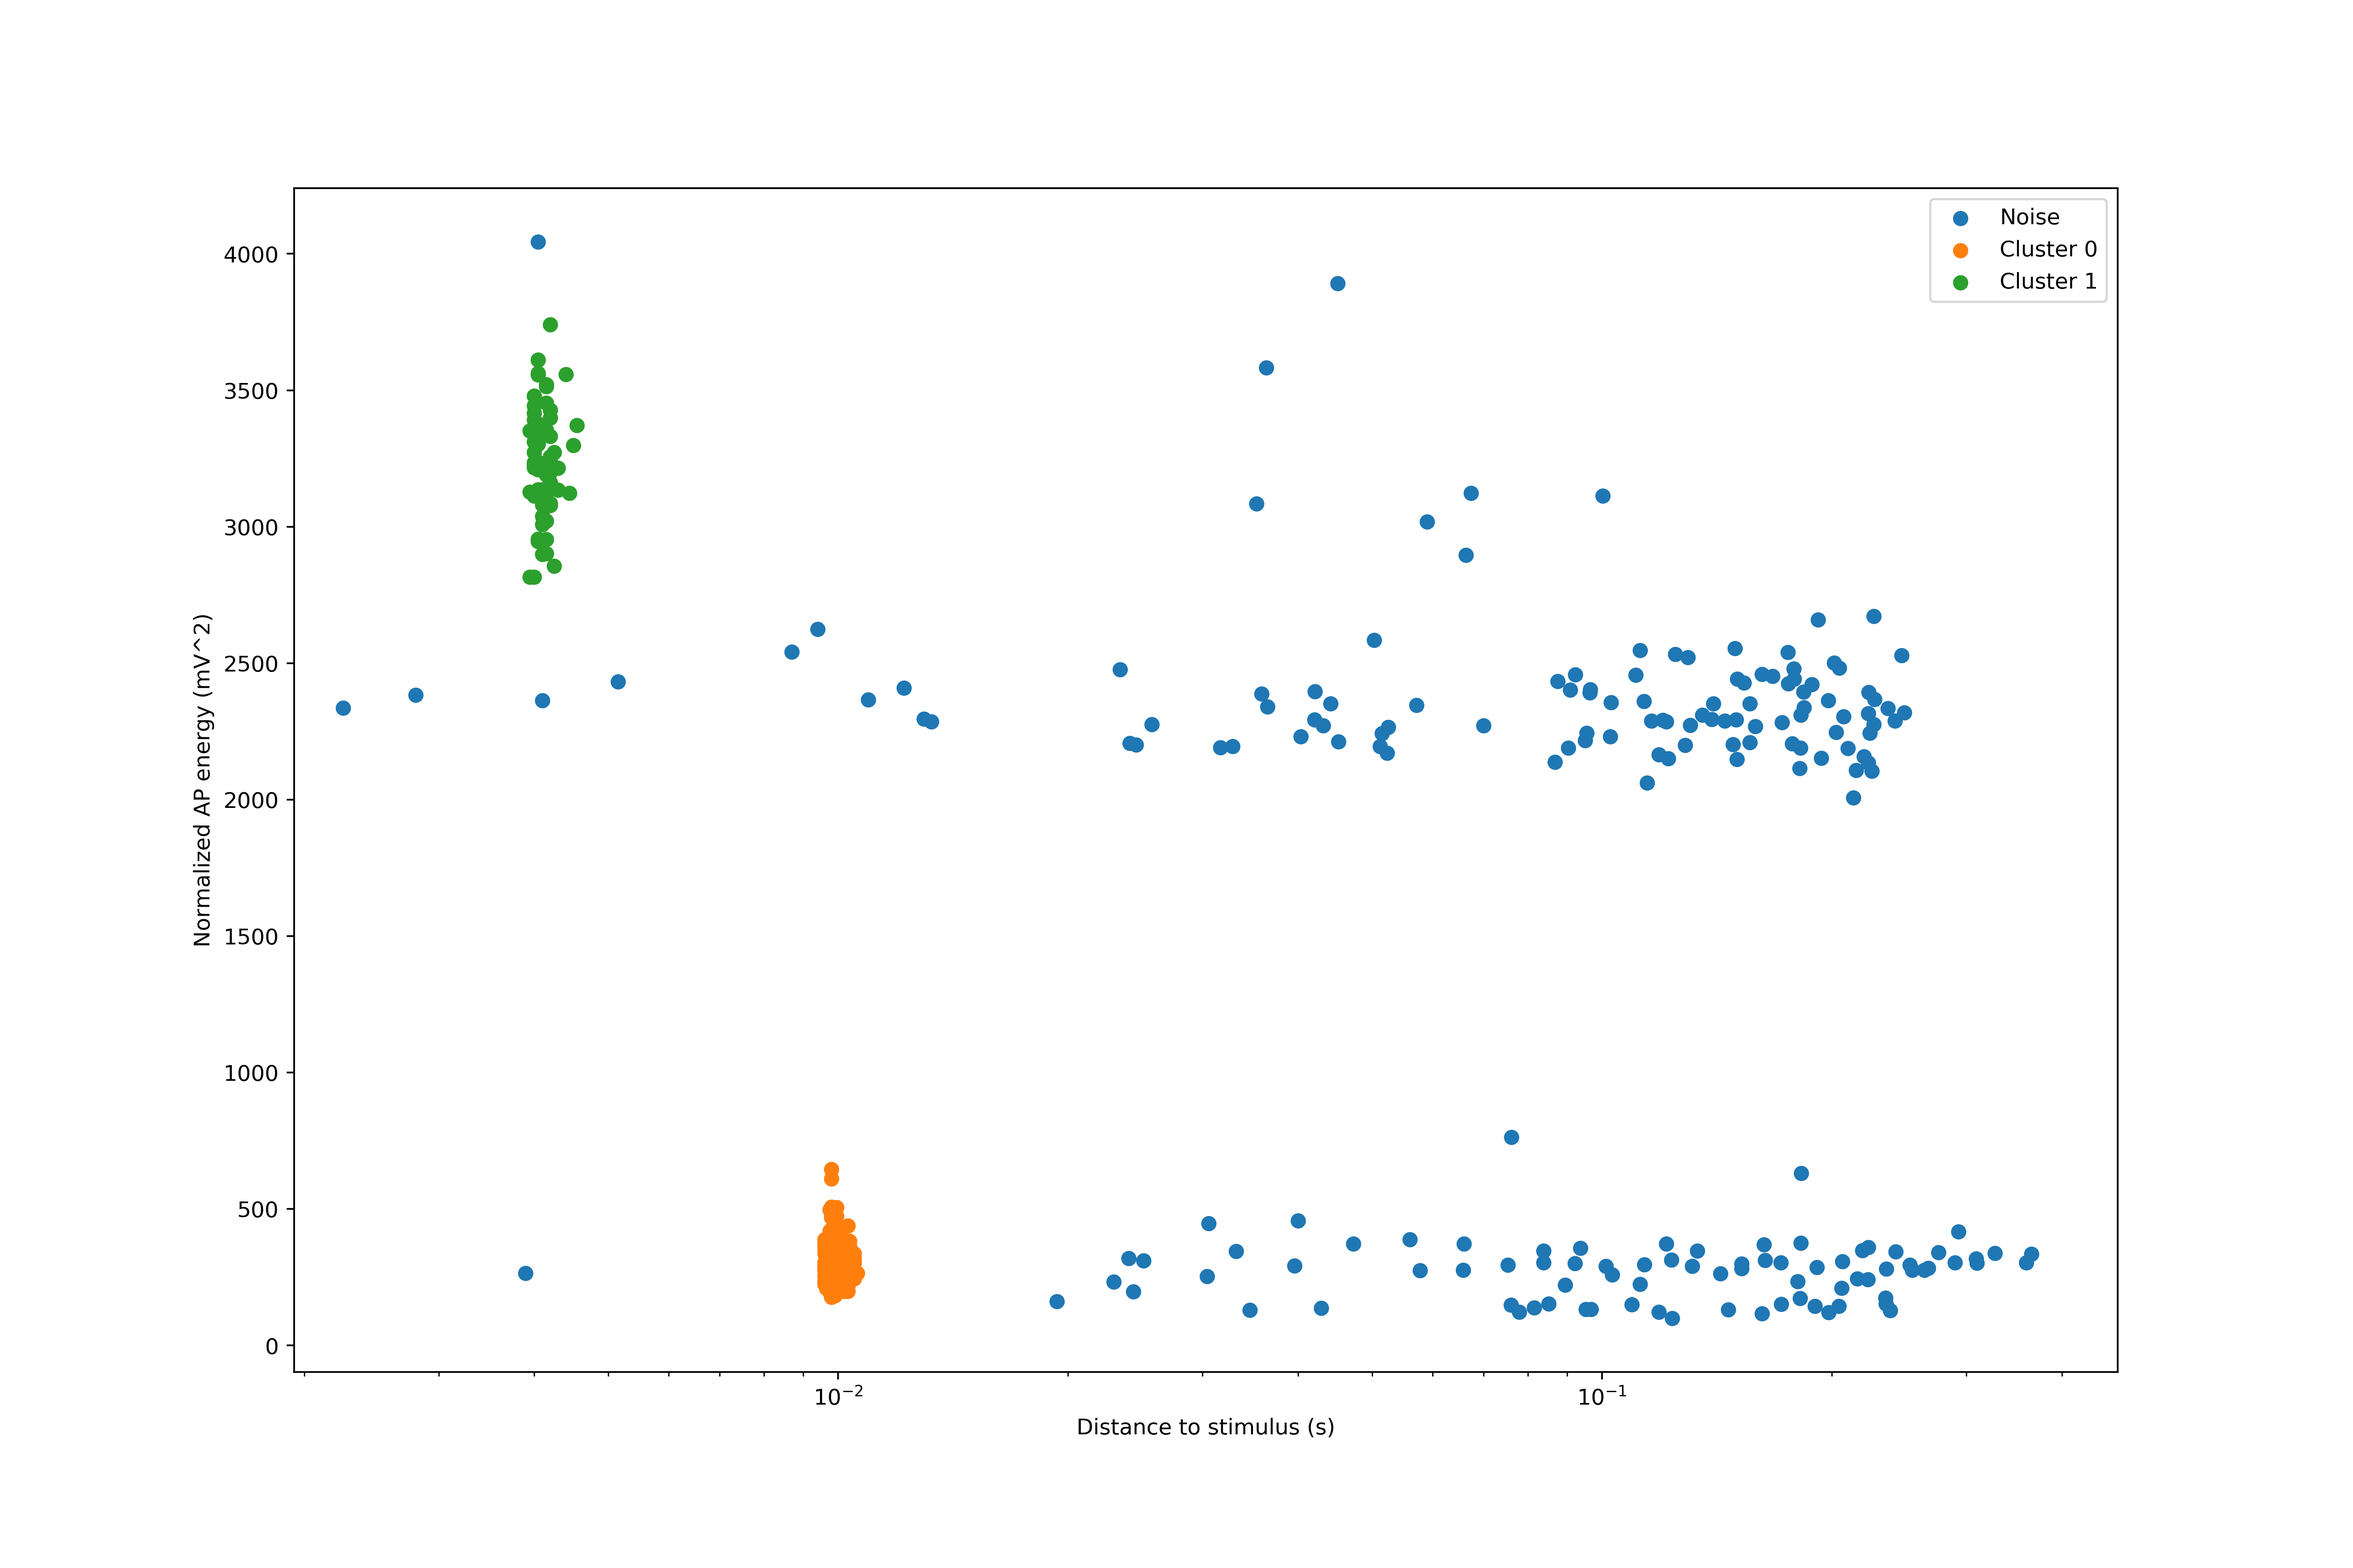
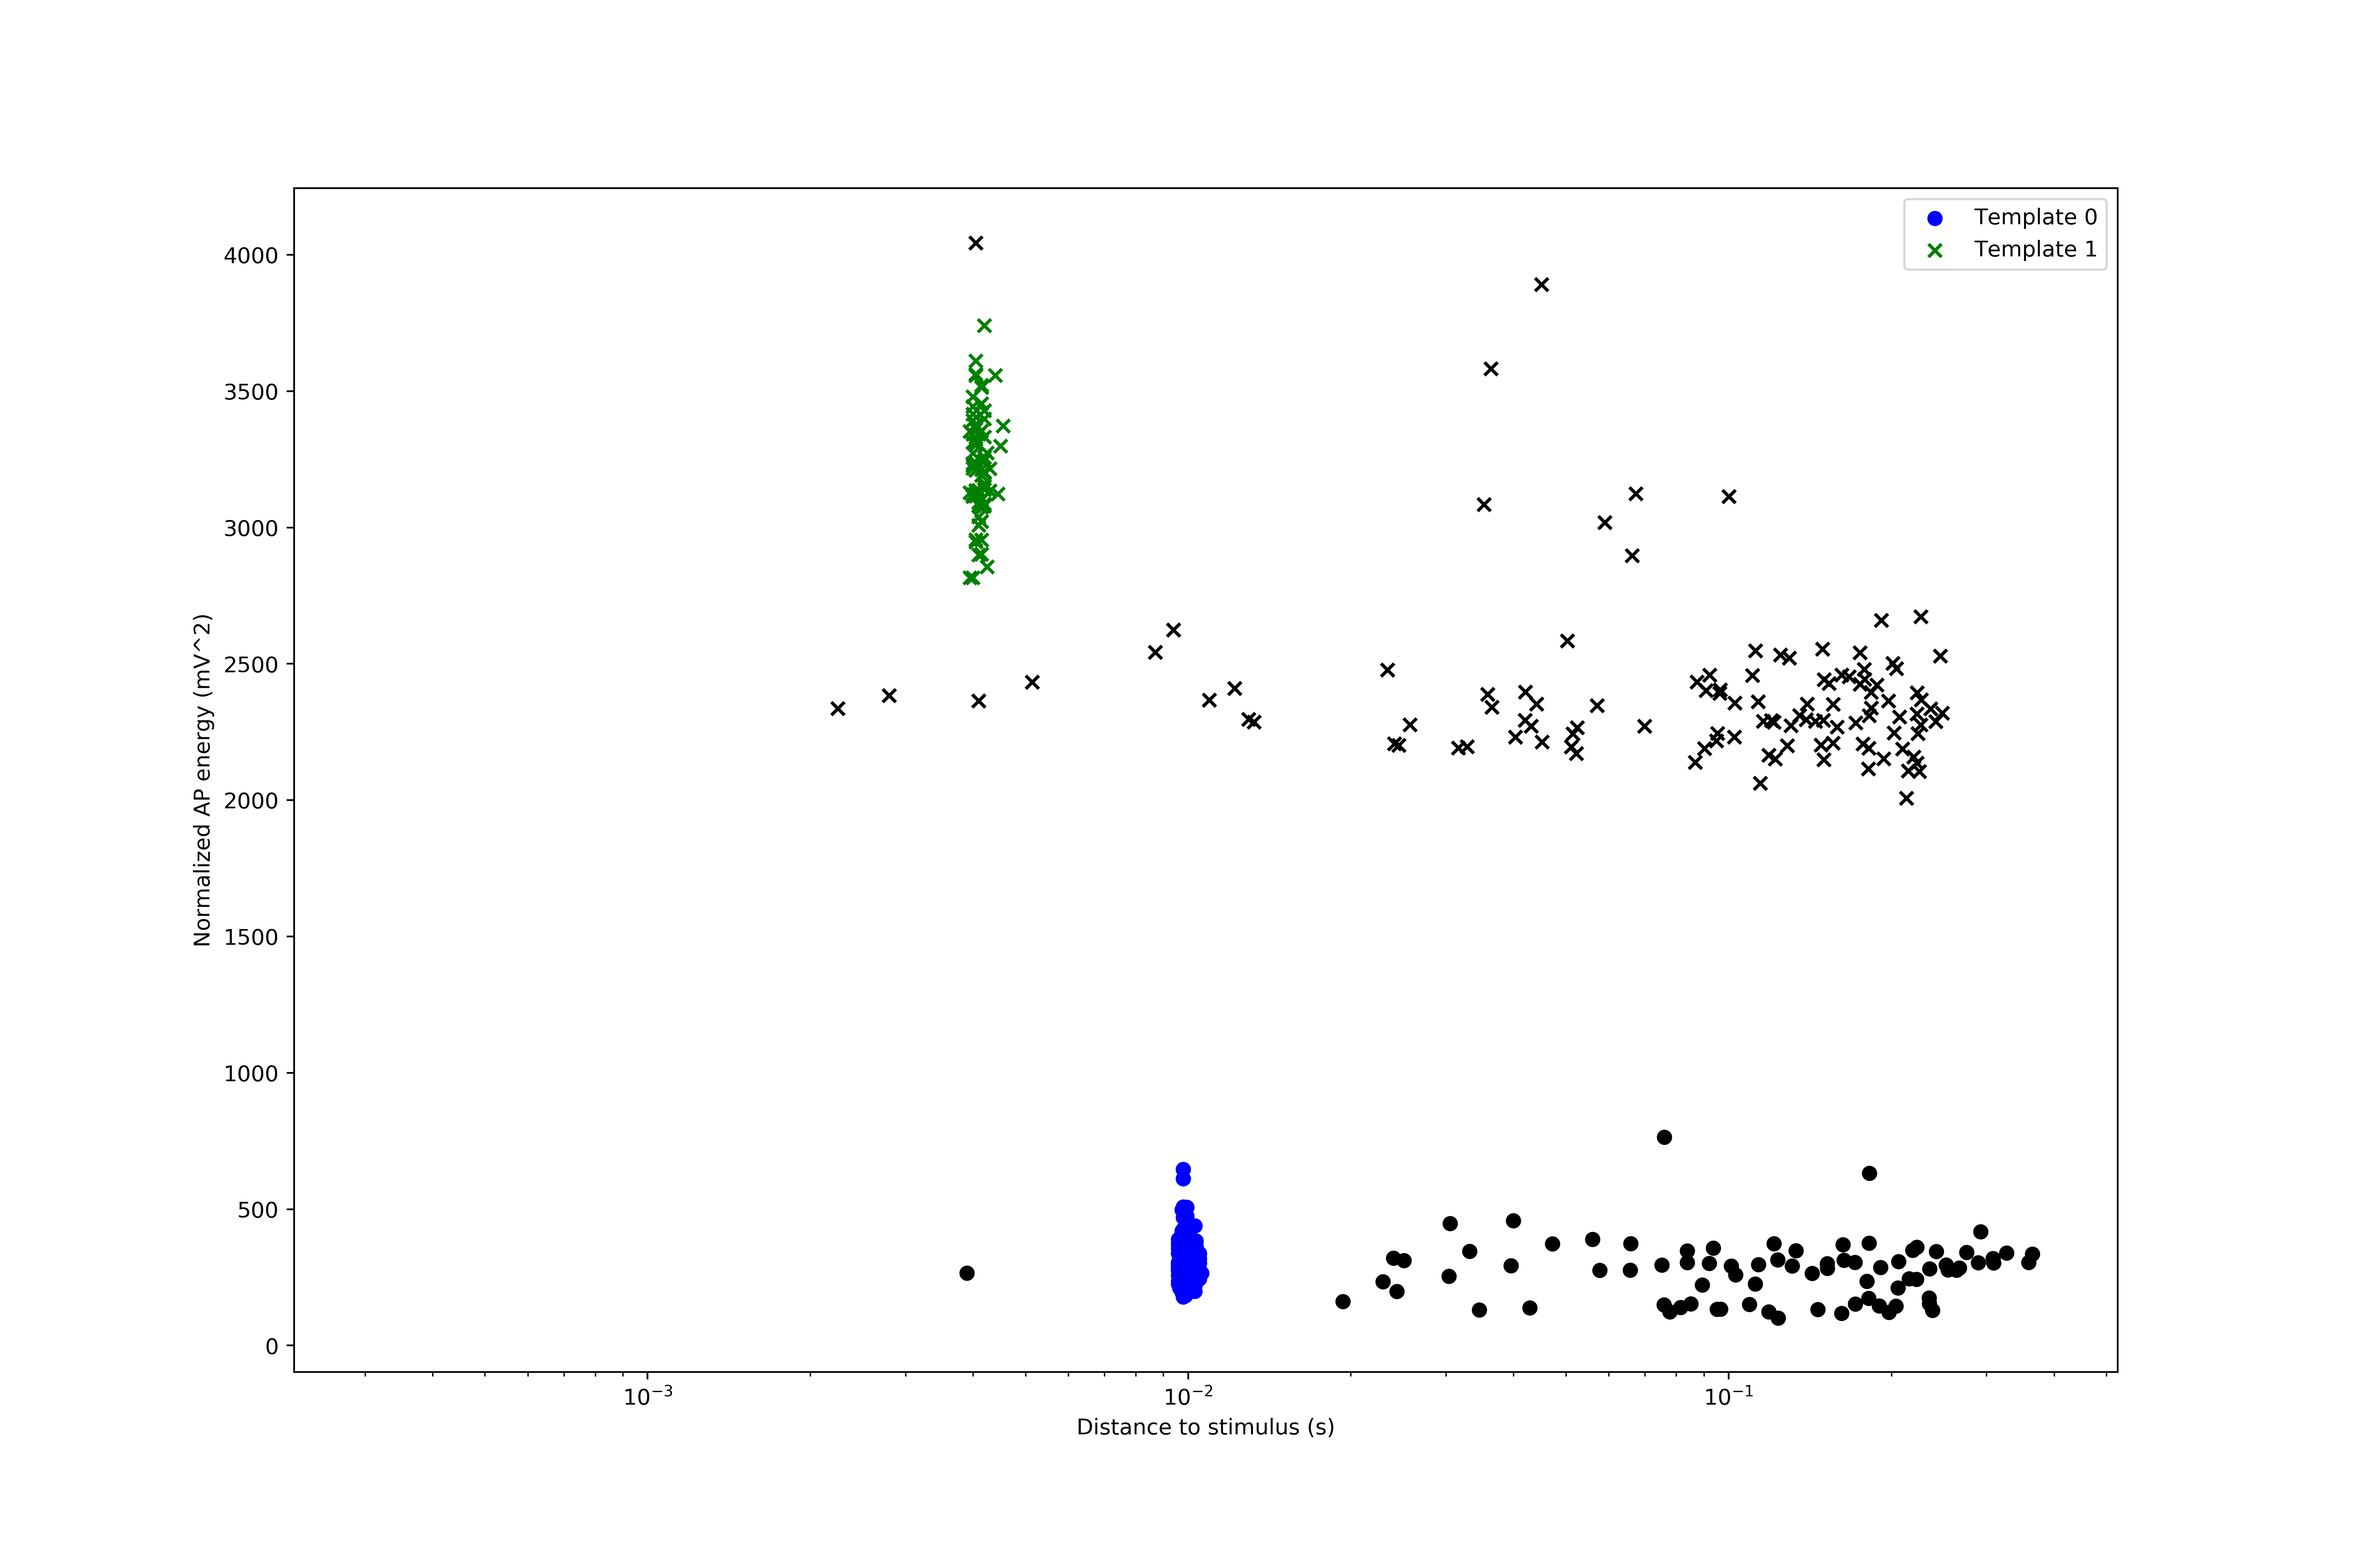
Added marker codes to get information about the matched template in the scatterplot

diff --git a/code/signal_artifacts/action_potential.py b/code/signal_artifacts/action_potential.py
@@ -11,12 +11,16 @@ class ActionPotential:
 	dist_to_prev_el_stimulus = None
 	dist_to_prev_mech_stimulus = None
 	norm_energy = None
+	channel_index = None
 	
 	# construct an AP class from a pandas dataframe containing only the rows for the AP
-	def __init__(self, input_df, el_stimuli, mech_stimuli, time_column = "Time", signal_column = "1 Signal", verbose = False):
+	def __init__(self, input_df, el_stimuli, mech_stimuli, time_column = "Time", signal_column = "1 Signal", channel_index = 0, verbose = False):
 		# get on- and offset (in seconds) for this AP
 		self.onset = input_df.iloc[0][time_column]
 		self.offset = input_df.iloc[-1][time_column]
+		
+		# set the channel index, e.g. for different marker shapes in a scatter plot
+		self.channel_index = channel_index
 	
 		# calculated the sum-squares energy of the AP signal
 		self.norm_energy = ActionPotential.calculateNormalizedEnergy(signal_values = input_df[signal_column].values)
@@ -102,3 +106,6 @@ class ActionPotential:
 		
 	def getNormalizedEnergy(self):
 		return self.norm_energy
+		
+	def getChannelIndex(self):
+		return self.channel_index

diff --git a/code/importers/spike_importer.py b/code/importers/spike_importer.py
@@ -55,7 +55,7 @@ class SpikeImporter:
 			
 		# get the APs from all marker channels
 		actpots = []
-		for ap_marker_channel in self.ap_marker_channels:	
+		for channel_index, ap_marker_channel in enumerate(self.ap_marker_channels):	
 			# get the rows from the AP where Spike registered some AP matching our template
 			actpots_df = self.getRowsWhereNotNaN(ap_marker_channel)
 			
@@ -81,7 +81,7 @@ class SpikeImporter:
 				# range does not include the last position, therefore + 1 !
 				# also, pass the electrical stimuli so that the class can get the closest one
 				# print(str(onset) + " to " + str(offset))
-				ap = ActionPotential(input_df = actpots_df.iloc[range(onset, offset + 1)], el_stimuli = el_stimuli, mech_stimuli = mech_stimuli, verbose = verbose)
+				ap = ActionPotential(input_df = actpots_df.iloc[range(onset, offset + 1)], el_stimuli = el_stimuli, mech_stimuli = mech_stimuli, channel_index = channel_index, verbose = verbose)
 				actpots.append(ap)
 				
 				# "jump" to the next AP
